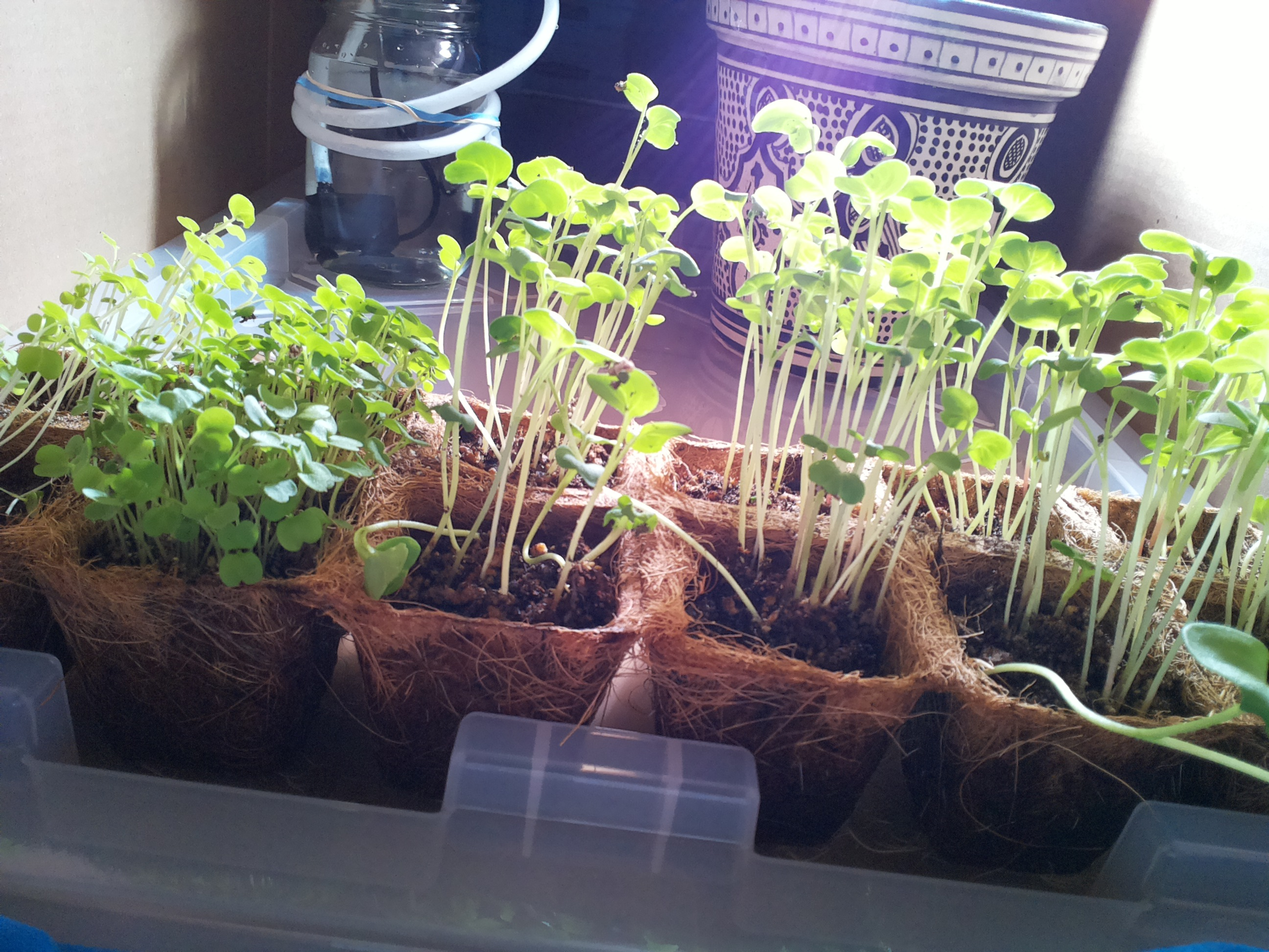
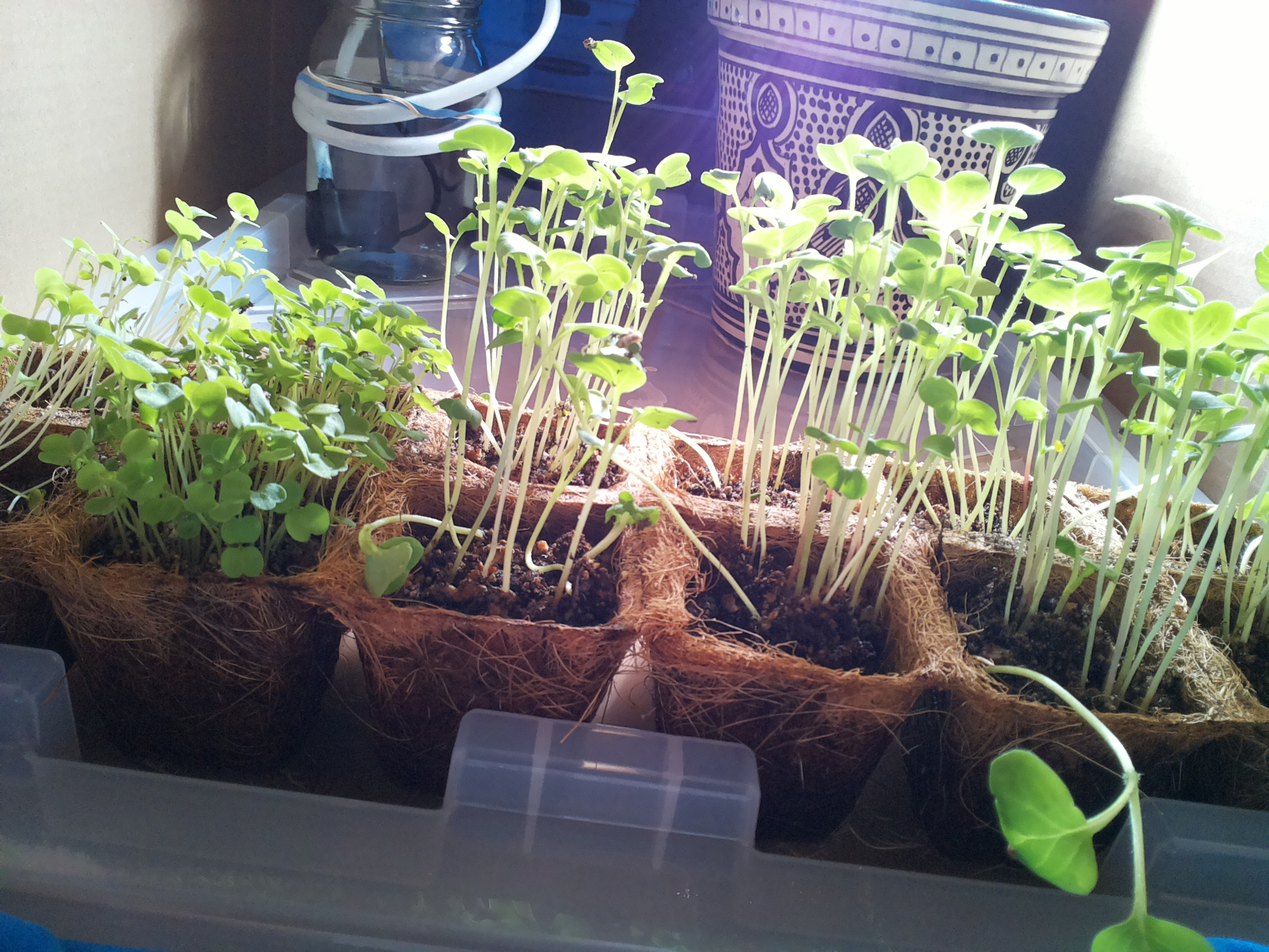
mirror sync 2026-09-02 07:20

diff --git a/home/bubbles/farmer-claude/JOURNAL.md b/home/bubbles/farmer-claude/JOURNAL.md
@@ -194,3 +194,11 @@
 - Photo: seedlings vigorous in all 12 cells (day 8) — tall, leggy, cotyledons broad and green, true leaves developing; no wilting despite ~4 days dry. No mold/pests/tipping. Tube in place over the lid.
 - Soil: mixed — dark patches plus drier crumbly spots, coir walls very pale after the long dry-down; the pulse should begin rewetting via bottom-feed. Expect to pulse again at 07:12 unless surfaces look dark.
 - Lamp: on — correct for photoperiod.
+
+### 2026-09-02 07:12 — morning check-in (cron)
+- Photo: seedlings vigorous in all 12 cells (day 9) — tall, leggy, cotyledons broad and green, true leaves developing; no wilting, mold, pests, or tipping. Tube in place over the lid.
+- Jar: zoomed photo shows dark water still high in the glass — last night's refill held overnight, siphon losses negligible. Pump body well covered.
+- Soil: mixed — dark damp patches plus drier crumbly spots with perlite showing; coir walls still pale from the 4-day dry-down. Rewetting continues.
+- Lamp: on — correct for photoperiod.
+- Watering: 4s pulse per standing order 2 (4s of 60s daily cap used; water.py OK, pump plug verified OFF after). Jar level held post-pulse.
+- No changes to standing orders. Next: 13:07 observe-only; 19:22 pulse unless surfaces look dark.
